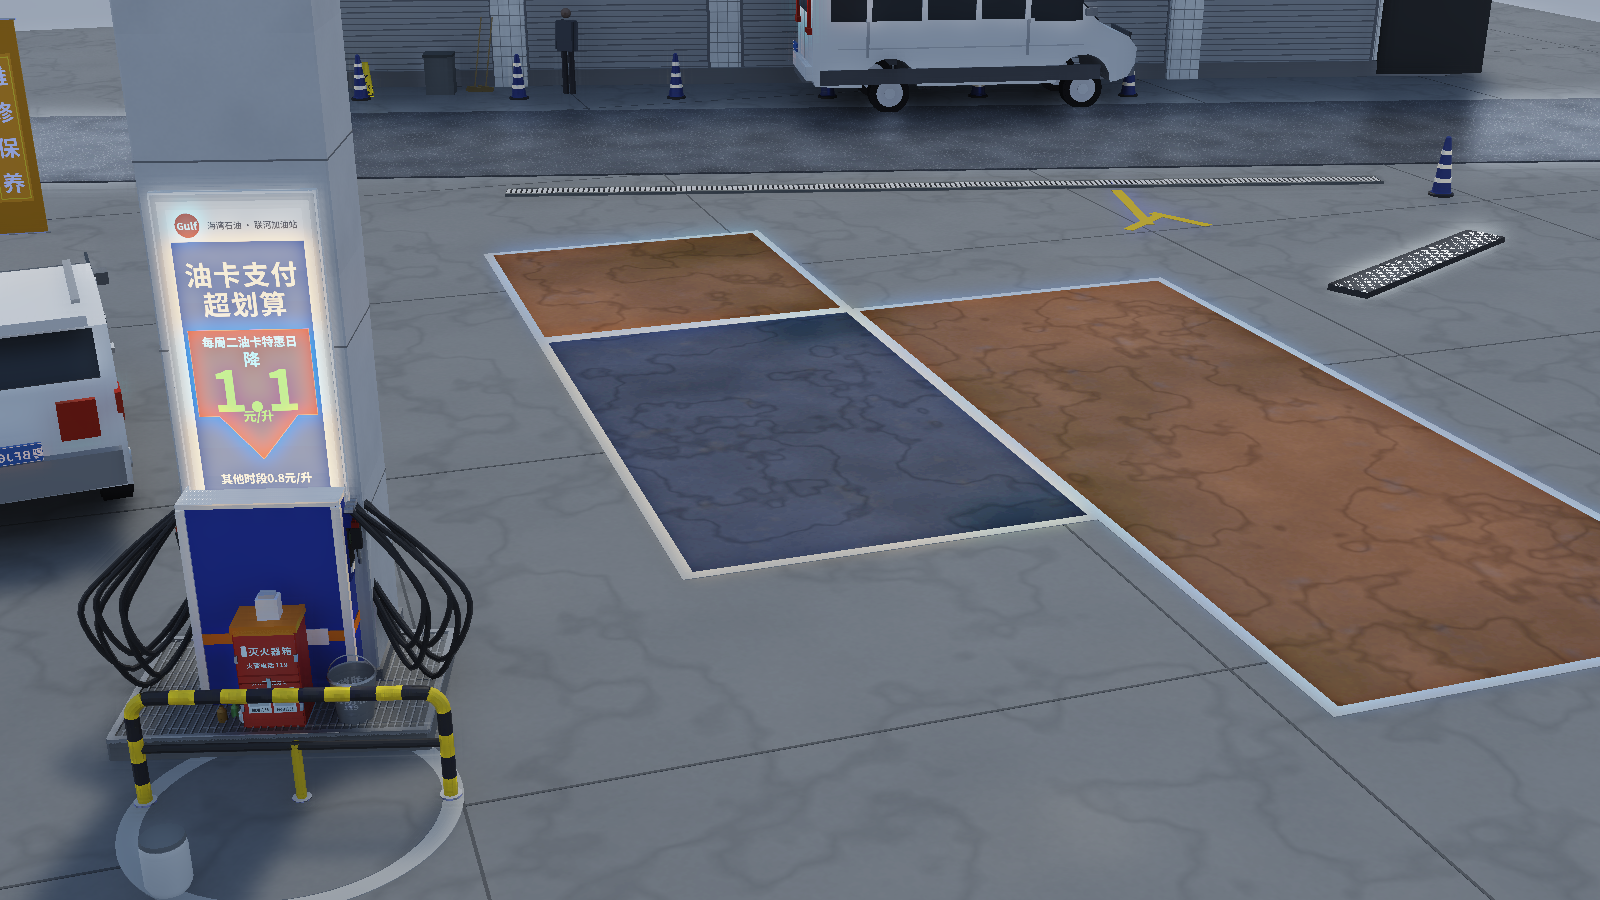
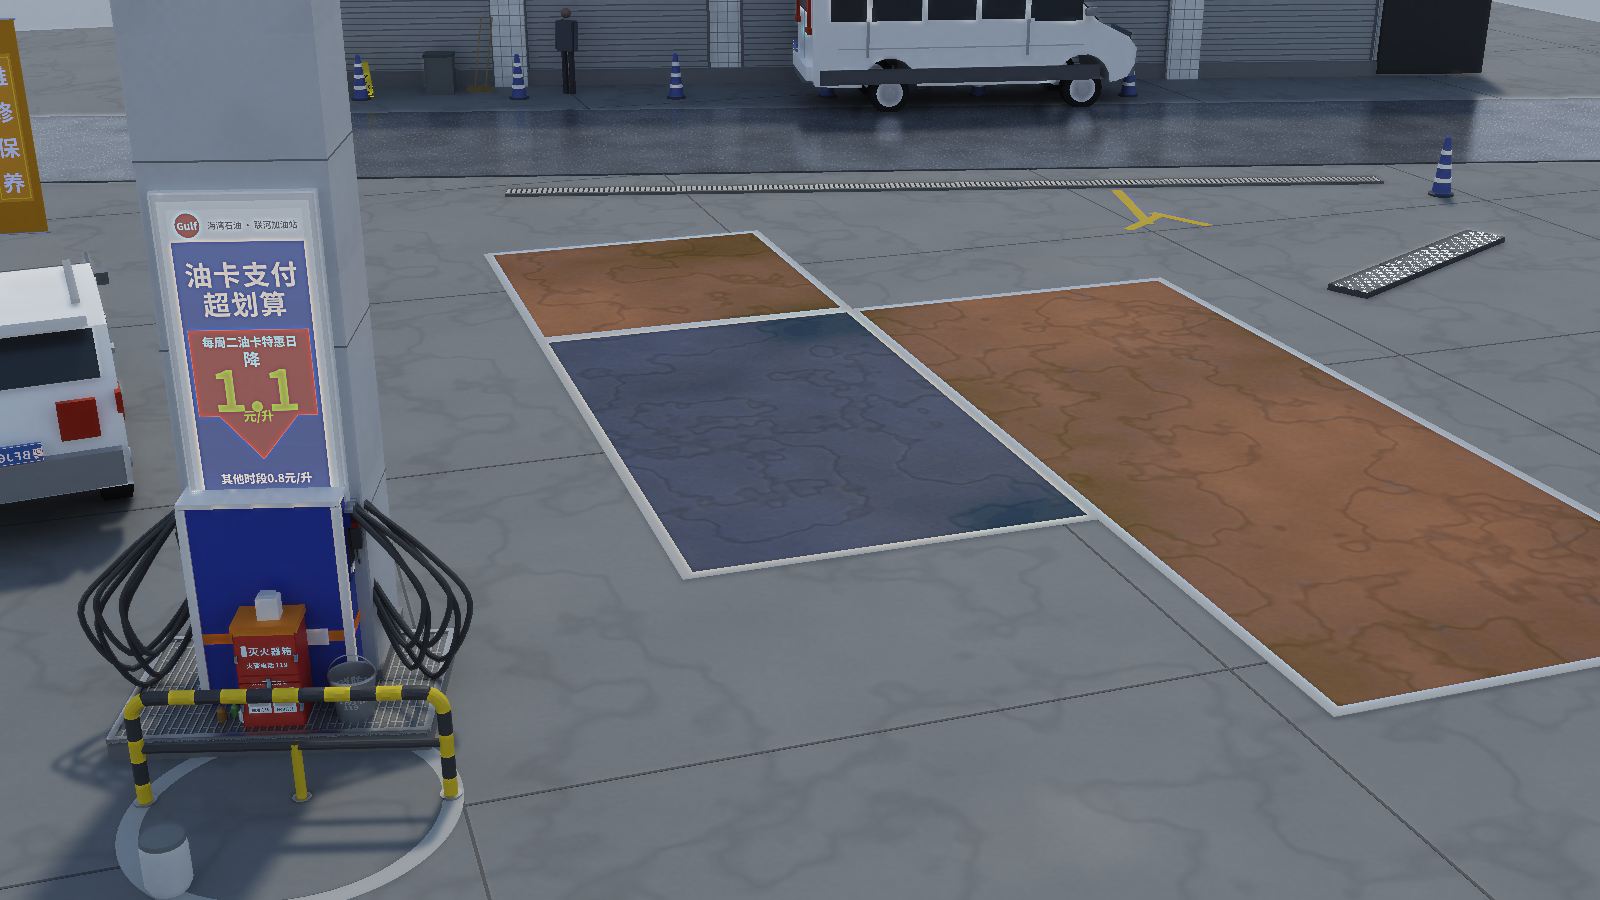
the two objects that were still boxes, named by the scorecard
Blurring both images by 1.2 px before measuring detail changed which objects are
guilty, and that is the point of fixing a metric before chasing it. A CCTV frame
carries sensor noise over every square inch and a path-traced one does not, so
an unblurred comparison scores the photograph's GRAIN as structure the render is
missing. The apron read 0.18 and would not move for twice the staining, a tile
half the size, or turning the denoiser down -- none of which were the reason. It
reads 0.31 measured fairly, and it was never the problem.

What survived the fair measurement is two objects, and they were real:

  column   0.20, at 61 kpx the largest thing in frame. Cladding is PANELS: it
           now has recessed joints both ways, a corner reveal down each arris,
           and a bolted access hatch at working height.
  facade   0.17. A shop front is not a wall -- lintel with a shadow gap, split
           air-conditioners on brackets, downpipes running into the kerb, a
           fascia for the signage to hang off.

Every other part was already at 0.9-1.0 of the photograph's structure, which is
where hand-detailed work lands and is the number that says stop.

Also from the table: the dispenser's blue carried cast -0.259, the largest
colour error on the board, and no lighting change answers paint that is more
saturated than its subject.

diff --git a/examples/cases/forecourt/parts.py b/examples/cases/forecourt/parts.py
@@ -473,12 +473,33 @@ def hazard_rail(width=1.83, height=0.72, r=0.045):
 
 
 def clad_column(w=1.16, d=0.88, h=8.0):
-    """The canopy column: clad panels with a shadow-line seam every 1.2 m and broken
-    corners, so the biggest flat object in frame stops being a flat object."""
+    """The canopy column — the largest single object in the frame, and the last one that
+    was still a painted box.
+
+    Cladding is PANELS, and panels have joints in both directions: a recessed shadow line
+    every 1.2 m up and every 0.55 m across, plus a corner reveal down each arris and a
+    bolted access hatch at working height. The scorecard put it at 0.20 of the photograph's
+    structure while every hand-detailed part in the scene sat near 0.9 — which is the number
+    saying "this is a big smooth rectangle", and it was."""
     p = MeshProgram()
     p.place(cbox(w, d, h, 0.022), at=[0, 0, h / 2], material=CLAD)
-    for k in range(1, int(h / 1.2) + 1):                               # panel joints
-        p.place(box(w + 0.006, d + 0.006, 0.012), at=[0, 0, k * 1.2], material=SEAM)
+    for k in range(1, int(h / 1.2) + 1):                               # horizontal joints
+        p.place(box(w + 0.008, d + 0.008, 0.016), at=[0, 0, k * 1.2], material=SEAM)
+        p.place(box(w + 0.014, d + 0.014, 0.006), at=[0, 0, k * 1.2 + 0.012], material=CLAD)
+    for t in (-1, 1):                                                  # vertical joints
+        for u in (-1, 0, 1):
+            p.place(box(0.012, d + 0.008, h), at=[u * w * 0.30, 0, h / 2], material=SEAM)
+            p.place(box(w + 0.008, 0.012, h), at=[0, u * d * 0.30, h / 2], material=SEAM)
+        p.place(cbox(0.030, 0.030, h - 0.1, 0.008), at=[t * (w / 2 - 0.004), 0, h / 2],
+                material=SEAM)                                          # corner reveals
+        p.place(cbox(0.030, 0.030, h - 0.1, 0.008), at=[0, t * (d / 2 - 0.004), h / 2],
+                material=SEAM)
+    p.place(cbox(0.34, 0.02, 0.44, 0.008), at=[-0.24, -d / 2 - 0.006, 1.05], material=SEAM)
+    p.place(cbox(0.30, 0.02, 0.40, 0.006), at=[-0.24, -d / 2 - 0.012, 1.05], material=CLAD)
+    for z in (0.88, 1.22):                                             # the hatch's fixings
+        for x in (-0.36, -0.12):
+            p.place(cyl(0.011, 0.014, 8), at=[x, -d / 2 - 0.016, z], rotate=[90, 0, 0],
+                    material=STEEL)
     p.place(cbox(w + 0.05, d + 0.05, 0.09, 0.014), at=[0, 0, 0.045], material=SEAM)  # base
     return p
 
@@ -543,12 +564,30 @@ def roller_shutter(w=3.0, h=3.1):
 
 
 def facade(length=24.0, h=5.2):
-    """The workshop frontage: a tiled wall, a plinth, a lintel band and a parapet."""
+    """The workshop frontage.
+
+    Was a tiled slab with three bands on it and scored 0.17 of the photograph's structure.
+    A real shop front carries the things nobody models and everybody sees: a lintel with a
+    shadow gap over the openings, split air-conditioners bracketed above them, downpipes
+    running the full height into the kerb, and a fascia the signage hangs off."""
     p = MeshProgram()
     p.place(cbox(length, 0.40, h, 0.03), at=[0, 0, h / 2], material=WALL_TILE)
     p.place(cbox(length + 0.10, 0.52, 0.30, 0.02), at=[0, -0.04, 0.15], material=SEAM)
-    p.place(cbox(length + 0.06, 0.50, 0.22, 0.02), at=[0, -0.05, 3.55], material=SEAM)
+    p.place(cbox(length + 0.06, 0.54, 0.26, 0.02), at=[0, -0.07, 3.42], material=SEAM)
+    p.place(cbox(length + 0.02, 0.46, 0.09, 0.012), at=[0, -0.03, 3.60], material=WALL_TILE)
     p.place(cbox(length + 0.14, 0.56, 0.34, 0.03), at=[0, -0.06, h + 0.10], material=WALL_TILE)
+    for dx in (-9.6, -3.4, 3.0, 8.4):                                  # split air-con units
+        p.place(cbox(0.86, 0.34, 0.58, 0.014), at=[dx, -0.34, 4.10],
+                material=mat((0.58, 0.585, 0.58), 0.0, 0.45))
+        p.place(cbox(0.74, 0.03, 0.44, 0.008), at=[dx, -0.52, 4.10],
+                material=mat((0.30, 0.305, 0.30), 0.0, 0.55))          # the grille
+        p.place(cbox(0.94, 0.30, 0.05, 0.010), at=[dx, -0.32, 3.78], material=SEAM)
+    for dx in (-11.2, -5.0, 1.4, 7.2, 11.4):                           # downpipes
+        p.place(cyl(0.058, h - 0.1, 12), at=[dx, -0.24, (h - 0.1) / 2],
+                material=mat((0.42, 0.425, 0.42), 0.0, 0.5))
+        for z in (1.1, 2.6, 4.1):
+            p.place(cyl(0.072, 0.05, 12), at=[dx, -0.24, z],
+                    material=mat((0.34, 0.345, 0.34), 0.0, 0.5))
     return p
 
 

diff --git a/examples/cases/forecourt/materials.py b/examples/cases/forecourt/materials.py
@@ -84,14 +84,14 @@ YELLOWP  = mat((0.52, 0.36, 0.04), 0.0, 0.68)
 CONCRETE = mat((0.17, 0.175, 0.170), 0.0, 0.72)
 
 # ---- structure ------------------------------------------------------------------ #
-CLAD      = mat((0.455, 0.457, 0.453), 0.0, 0.38, maps=TEX["clad_panel"], uv_scale=1.5)
-WALL_TILE = mat((0.72, 0.725, 0.71), 0.0, 0.35, maps=TEX["shop_tile"], uv_scale=1.15)
+CLAD      = mat((0.415, 0.417, 0.413), 0.0, 0.38, maps=TEX["clad_panel"], uv_scale=1.5)
+WALL_TILE = mat((0.86, 0.865, 0.85), 0.0, 0.35, maps=TEX["shop_tile"], uv_scale=1.15)
 SEAM      = mat((0.24, 0.24, 0.24), 0.0, 0.45)      # the shadow line between clad panels
 KERB      = mat((0.24, 0.24, 0.235), 0.0, 0.66)
 
 # ---- painted metal and plastic --------------------------------------------------- #
-PUMP_BL   = mat((0.045, 0.085, 0.40), 0.0, 0.30)    # the dispenser's blue
-PUMP_BL_D = mat((0.028, 0.052, 0.26), 0.0, 0.34)
+PUMP_BL   = mat((0.070, 0.105, 0.315), 0.0, 0.30)   # the dispenser's blue
+PUMP_BL_D = mat((0.046, 0.068, 0.205), 0.0, 0.34)
 PANEL_WH  = mat((0.80, 0.80, 0.79), 0.0, 0.34)
 RED       = mat((0.50, 0.045, 0.030), 0.0, 0.40)
 RED_D     = mat((0.30, 0.028, 0.020), 0.0, 0.44)
@@ -103,7 +103,7 @@ HOSE      = mat((0.080, 0.080, 0.084), 0.0, 0.55)
 STEEL     = mat((0.52, 0.52, 0.53), 1.0, 0.36)
 # The island's grating stands in the rain. Bright dry steel turned it into a chrome
 # serving tray; wet steel is darker and glossier, and reads as the thing in the photo.
-WET_STEEL = mat((0.52, 0.525, 0.53), 1.0, 0.28)
+WET_STEEL = mat((0.60, 0.605, 0.60), 1.0, 0.30)
 GALV      = mat((0.46, 0.47, 0.48), 1.0, 0.44)      # galvanised: duller than bright steel
 CHROME    = mat((0.62, 0.63, 0.64), 1.0, 0.18)
 WHITE     = mat((0.78, 0.78, 0.77), 0.0, 0.42)
@@ -111,7 +111,7 @@ BODY_WH   = mat((0.83, 0.835, 0.84), 0.0, 0.22)     # vehicle paint: brighter an
 GLASS     = mat((0.05, 0.06, 0.07), 0.0, 0.07)
 SHUTTER   = mat((0.42, 0.43, 0.435), 0.35, 0.40)
 SHUTTER_D = mat((0.24, 0.245, 0.255), 0.35, 0.46)
-NAVY      = mat((0.10, 0.135, 0.34), 0.0, 0.44)
+NAVY      = mat((0.155, 0.185, 0.38), 0.0, 0.44)
 TAIL_RED  = mat((0.42, 0.03, 0.02), 0.0, 0.22)
 LAMP      = mat((0.70, 0.68, 0.62), 0.0, 0.14)
 

diff --git a/src/mirage/critique.py b/src/mirage/critique.py
@@ -60,7 +60,7 @@ DETAIL_FLOOR = 0.25  # below this an object is reading flat
 CAST_TOL = 0.020     # chromaticity (r-b) difference that starts to read as a colour cast
 
 
-def _detail(srgb, mask):
+def _detail(srgb, mask, blur=1.2):
     """Mean |grad| of DISPLAY luma over a mask — how much visible structure is here.
 
     Measured on the sRGB-encoded image on purpose, which is the one place in this codebase
@@ -69,8 +69,21 @@ def _detail(srgb, mask):
     near-black tubes against a bright floor — scored 4.06 and got flagged as *noisy*, and
     the tiny sliver of visible island scored 3.57. A ratio whose denominator goes to zero
     tells you about its denominator. Display luma is bounded, is what the eye is looking
-    at, and makes a flat panel read low whether it is lit or shadowed."""
+    at, and makes a flat panel read low whether it is lit or shadowed.
+
+    Both images are lightly BLURRED first, and the reason matters more than it sounds. A
+    CCTV frame carries sensor noise and compression mush over every square inch; a path
+    traced image is clean. Unblurred, a big smooth region scores the photograph's NOISE as
+    detail the render is missing, so the apron's ratio sat at 0.18 and would not move for
+    twice the staining, a tile half the size, or turning the denoiser down — none of which
+    were the reason. A 1.2 px blur removes what no render should imitate and leaves the
+    stains, cracks, kerbs and tyre marks, which are the structure actually being asked
+    about."""
     g = _luma(srgb)
+    if blur:
+        from PIL import ImageFilter
+        im = Image.fromarray((np.clip(g, 0, 1) * 255).astype(np.uint8))
+        g = np.asarray(im.filter(ImageFilter.GaussianBlur(radius=blur)), float) / 255.0
     gx = np.zeros_like(g)
     gy = np.zeros_like(g)
     gx[:, 1:-1] = g[:, 2:] - g[:, :-2]
